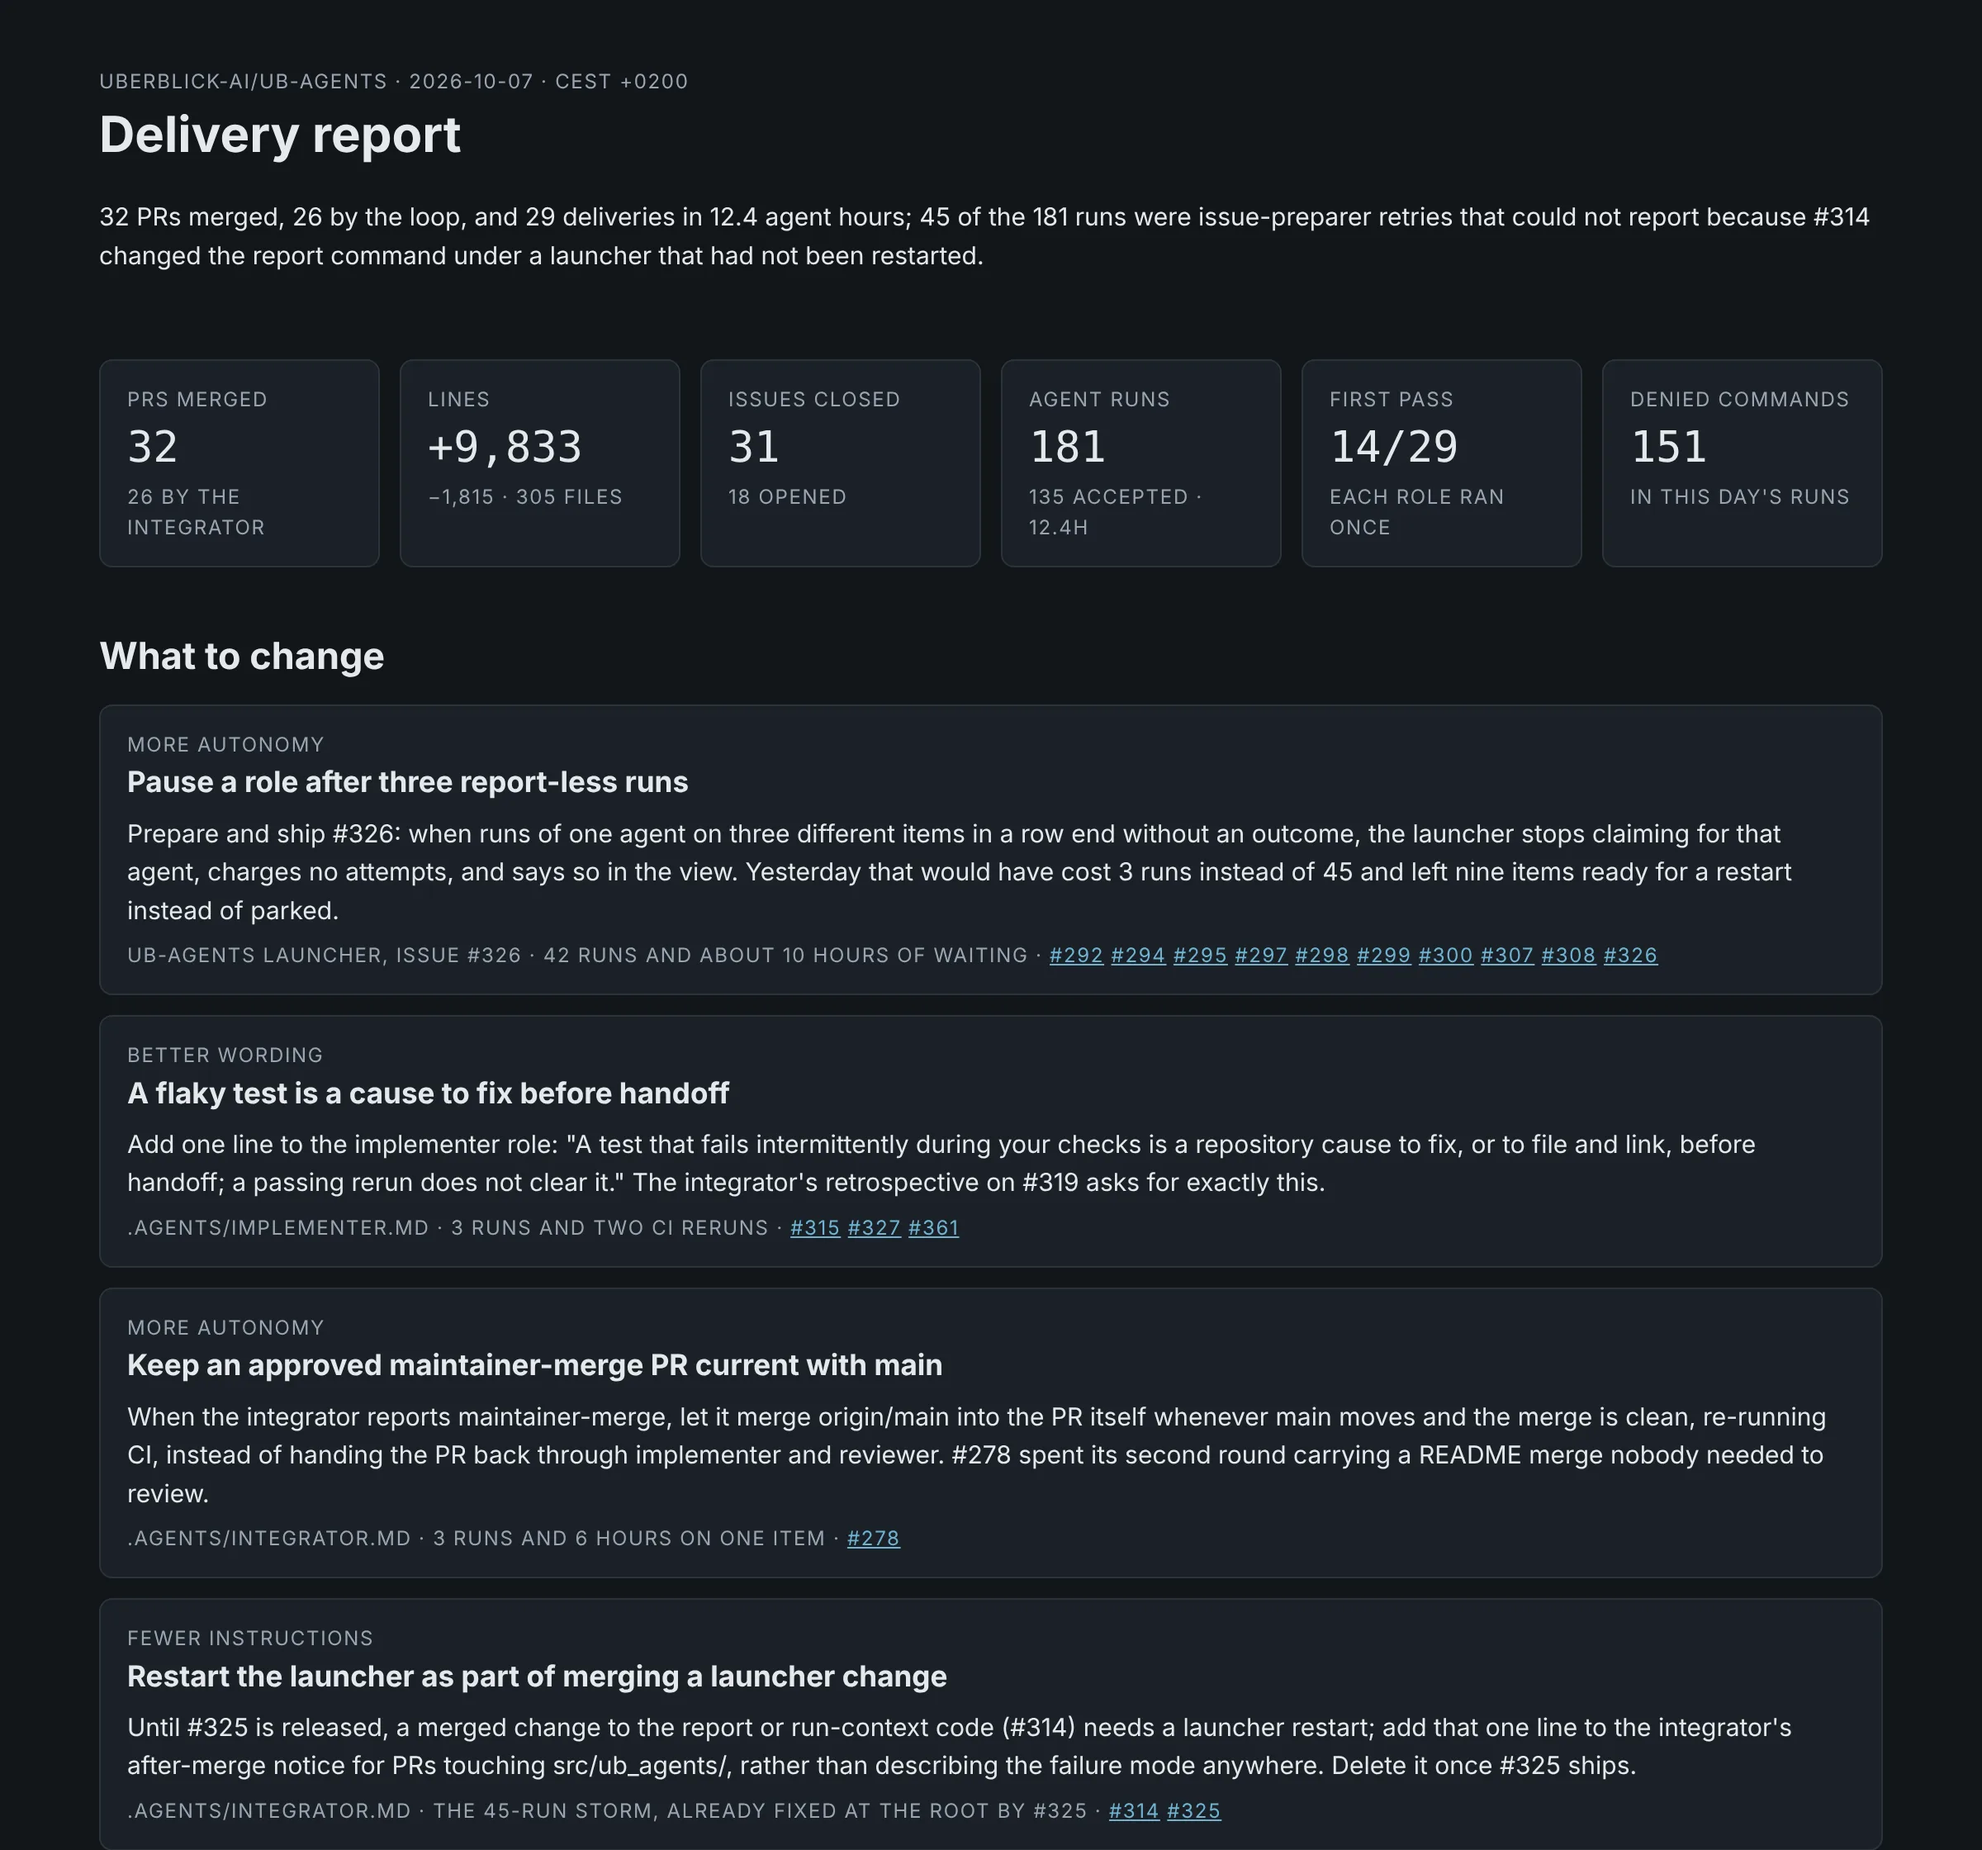
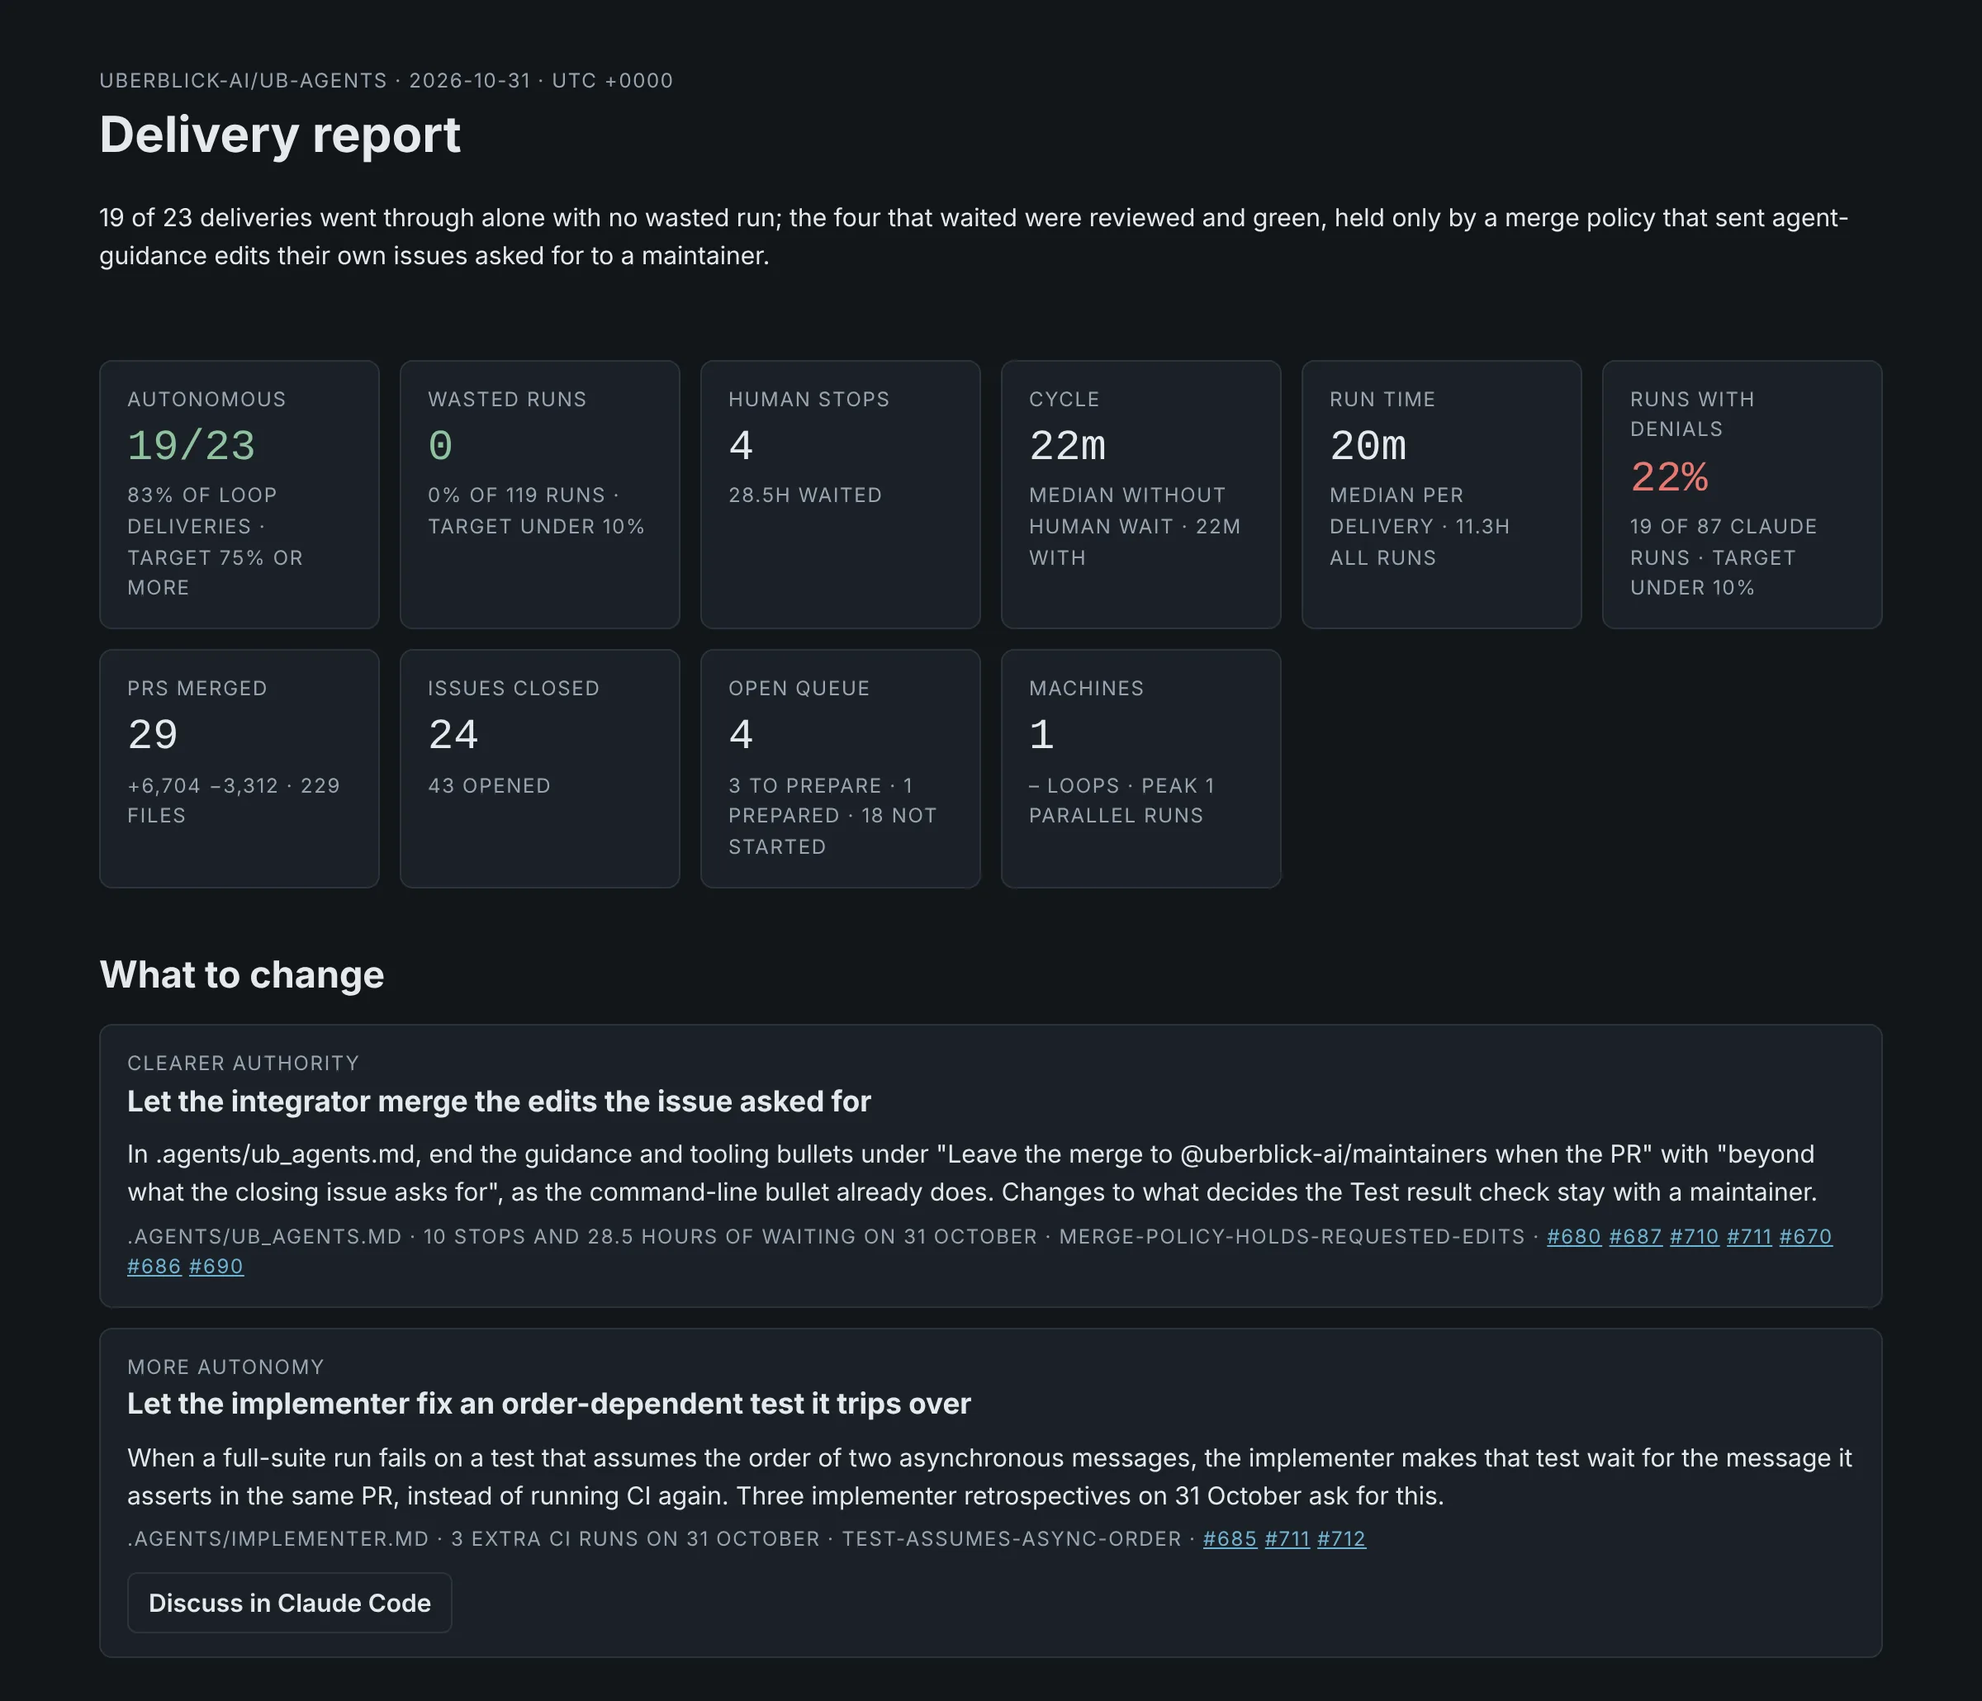
deliver-report page: real 80% day with the Uberblick chart
The ub-agents-deliver-report page now leads with the report for
uberblick-ai/ub-agents on 31 October 2026 (19 of 23 deliveries alone, no
wasted run) and, beside it, the same week kept in an Uberblick Delivery
report document with its Autonomy and waste chart. Both come from the
skill run against real GitHub data; the old table shot from the
7 October dry run is gone.

A screenshot can now name its frame (`bar`) and join the first one at the
top of the page (`lead`).

Claude-Session: https://claude.ai/code/session_01L8bD6wH1vhSfgKRKpniWnL

diff --git a/site/build.py b/site/build.py
@@ -256,9 +256,10 @@ def update_cmds(s):
             ('glob', 'Every project', f'{UPDATE} {s["slug"]} -g', True)]
 
 
-def shot(image, caption, pre, eager=False):
+def shot(x, pre, eager=False):
+    image, caption = x['image'], x['caption']
     lazy = '' if eager else ' loading="lazy"'
-    return (f'<figure class="shot"><div class="bar"><span>report.html</span></div>'
+    return (f'<figure class="shot"><div class="bar"><span>{e(x.get("bar", "report.html"))}</span></div>'
             f'<img class="l" src="{pre}img/{image}-light.webp" alt="{e(caption)}" width="2400"{lazy}>'
             f'<img class="d" src="{pre}img/{image}-dark.webp" alt="" width="2400"{lazy}>'
             f'<figcaption>{e(caption)}</figcaption></figure>')
@@ -347,8 +348,11 @@ def skill_page(s, groups, skills):
     if nxt:
         pager += f'<a class="next" href="{nxt["slug"]}"><span>Next</span>{nxt["slug"]}</a>'
     shots = s.get('shots', [])
-    first = shot(shots[0]['image'], shots[0]['caption'], pre, eager=True) if shots else ''
-    more = ''.join(shot(x['image'], x['caption'], pre) for x in shots[1:])
+    # The first shot leads the page; later ones marked "lead" join it there, the rest go to "In the report".
+    lead = shots[:1] + [x for x in shots[1:] if x.get('lead')]
+    first = ''.join(shot(x, pre, eager=True) for x in lead)
+    first = f'<div class="shots">{first}</div>' if len(lead) > 1 else first
+    more = ''.join(shot(x, pre) for x in shots if x not in lead)
     secs = []
     if s.get('asks') or s.get('steps'):
         asks = ''.join(f'<li>"{e(a)}"</li>' for a in s.get('asks', []))

diff --git a/AGENTS.md b/AGENTS.md
@@ -71,7 +71,9 @@ npx skills@latest add . --list             # every skill listed, none missing
 page without further work. For a fuller page, add
 `site/content/skills/<name>.json` with the question it answers, example asks,
 steps, facts, requirements and screenshots (`site/img/<image>-light.webp` and
-`-dark.webp`); see the existing files for the shape. The overview's text and
+`-dark.webp`); see the existing files for the shape. A screenshot's `bar` names
+its frame (`report.html` by default), and `lead: true` shows it at the top with
+the first one instead of under "In the report". The overview's text and
 recent changes are in `site/content/home.json`, newest first; the overview
 shows the newest five. Files in `site/static/`
 (favicons, the Pages `_headers` file) are copied to the site root. Cloudflare
